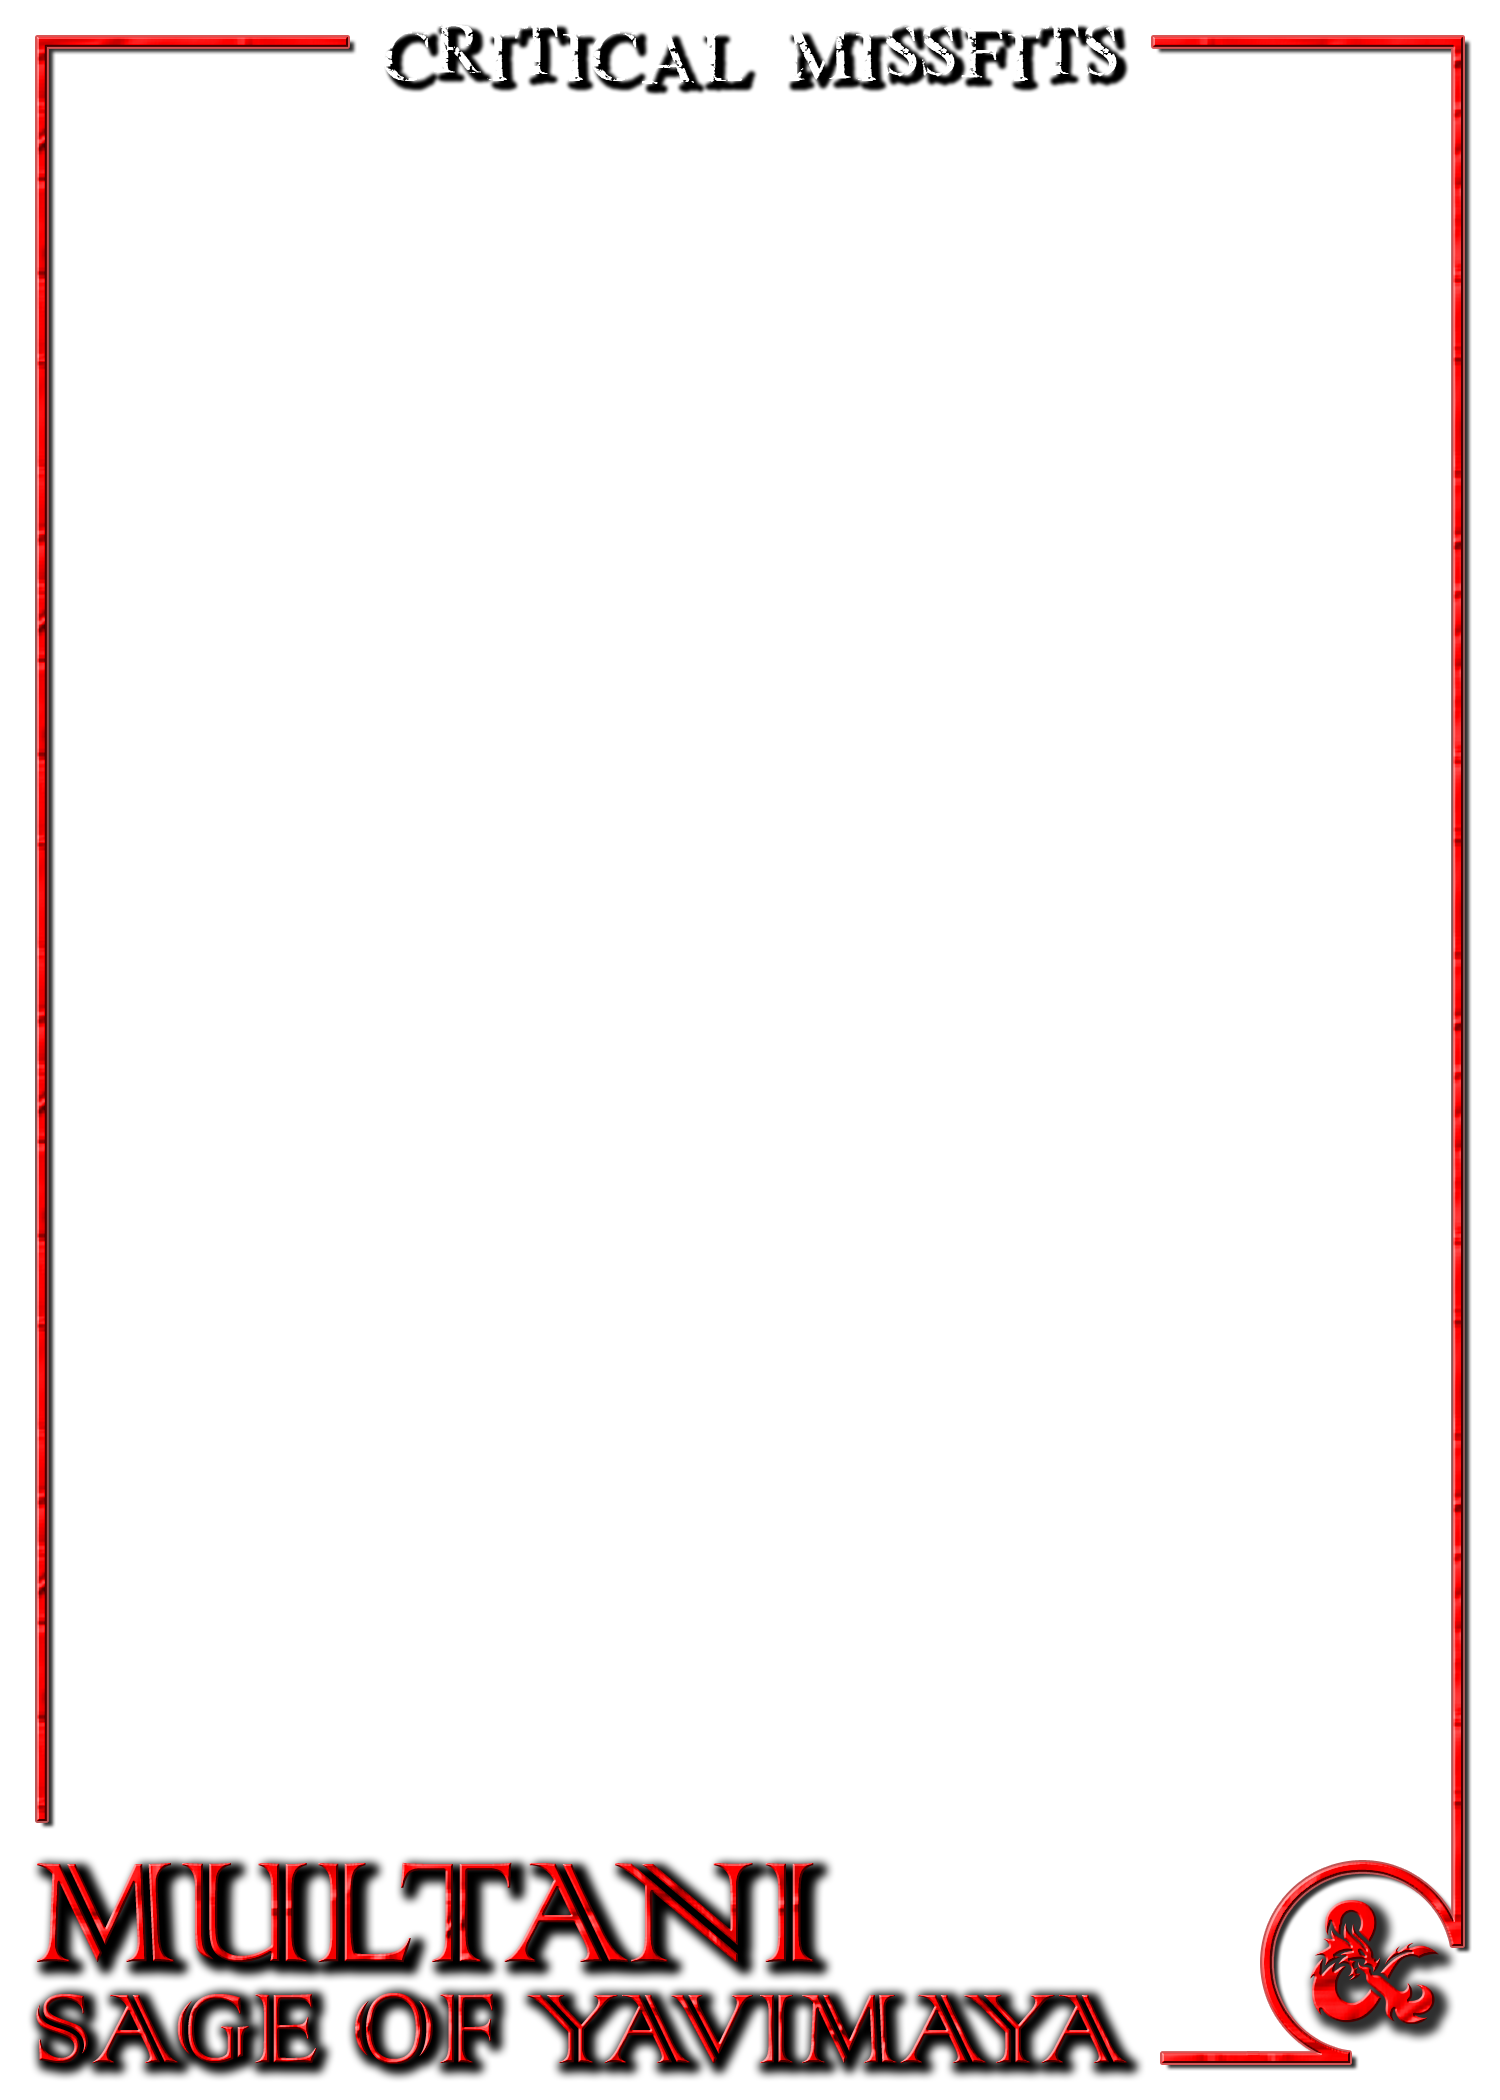
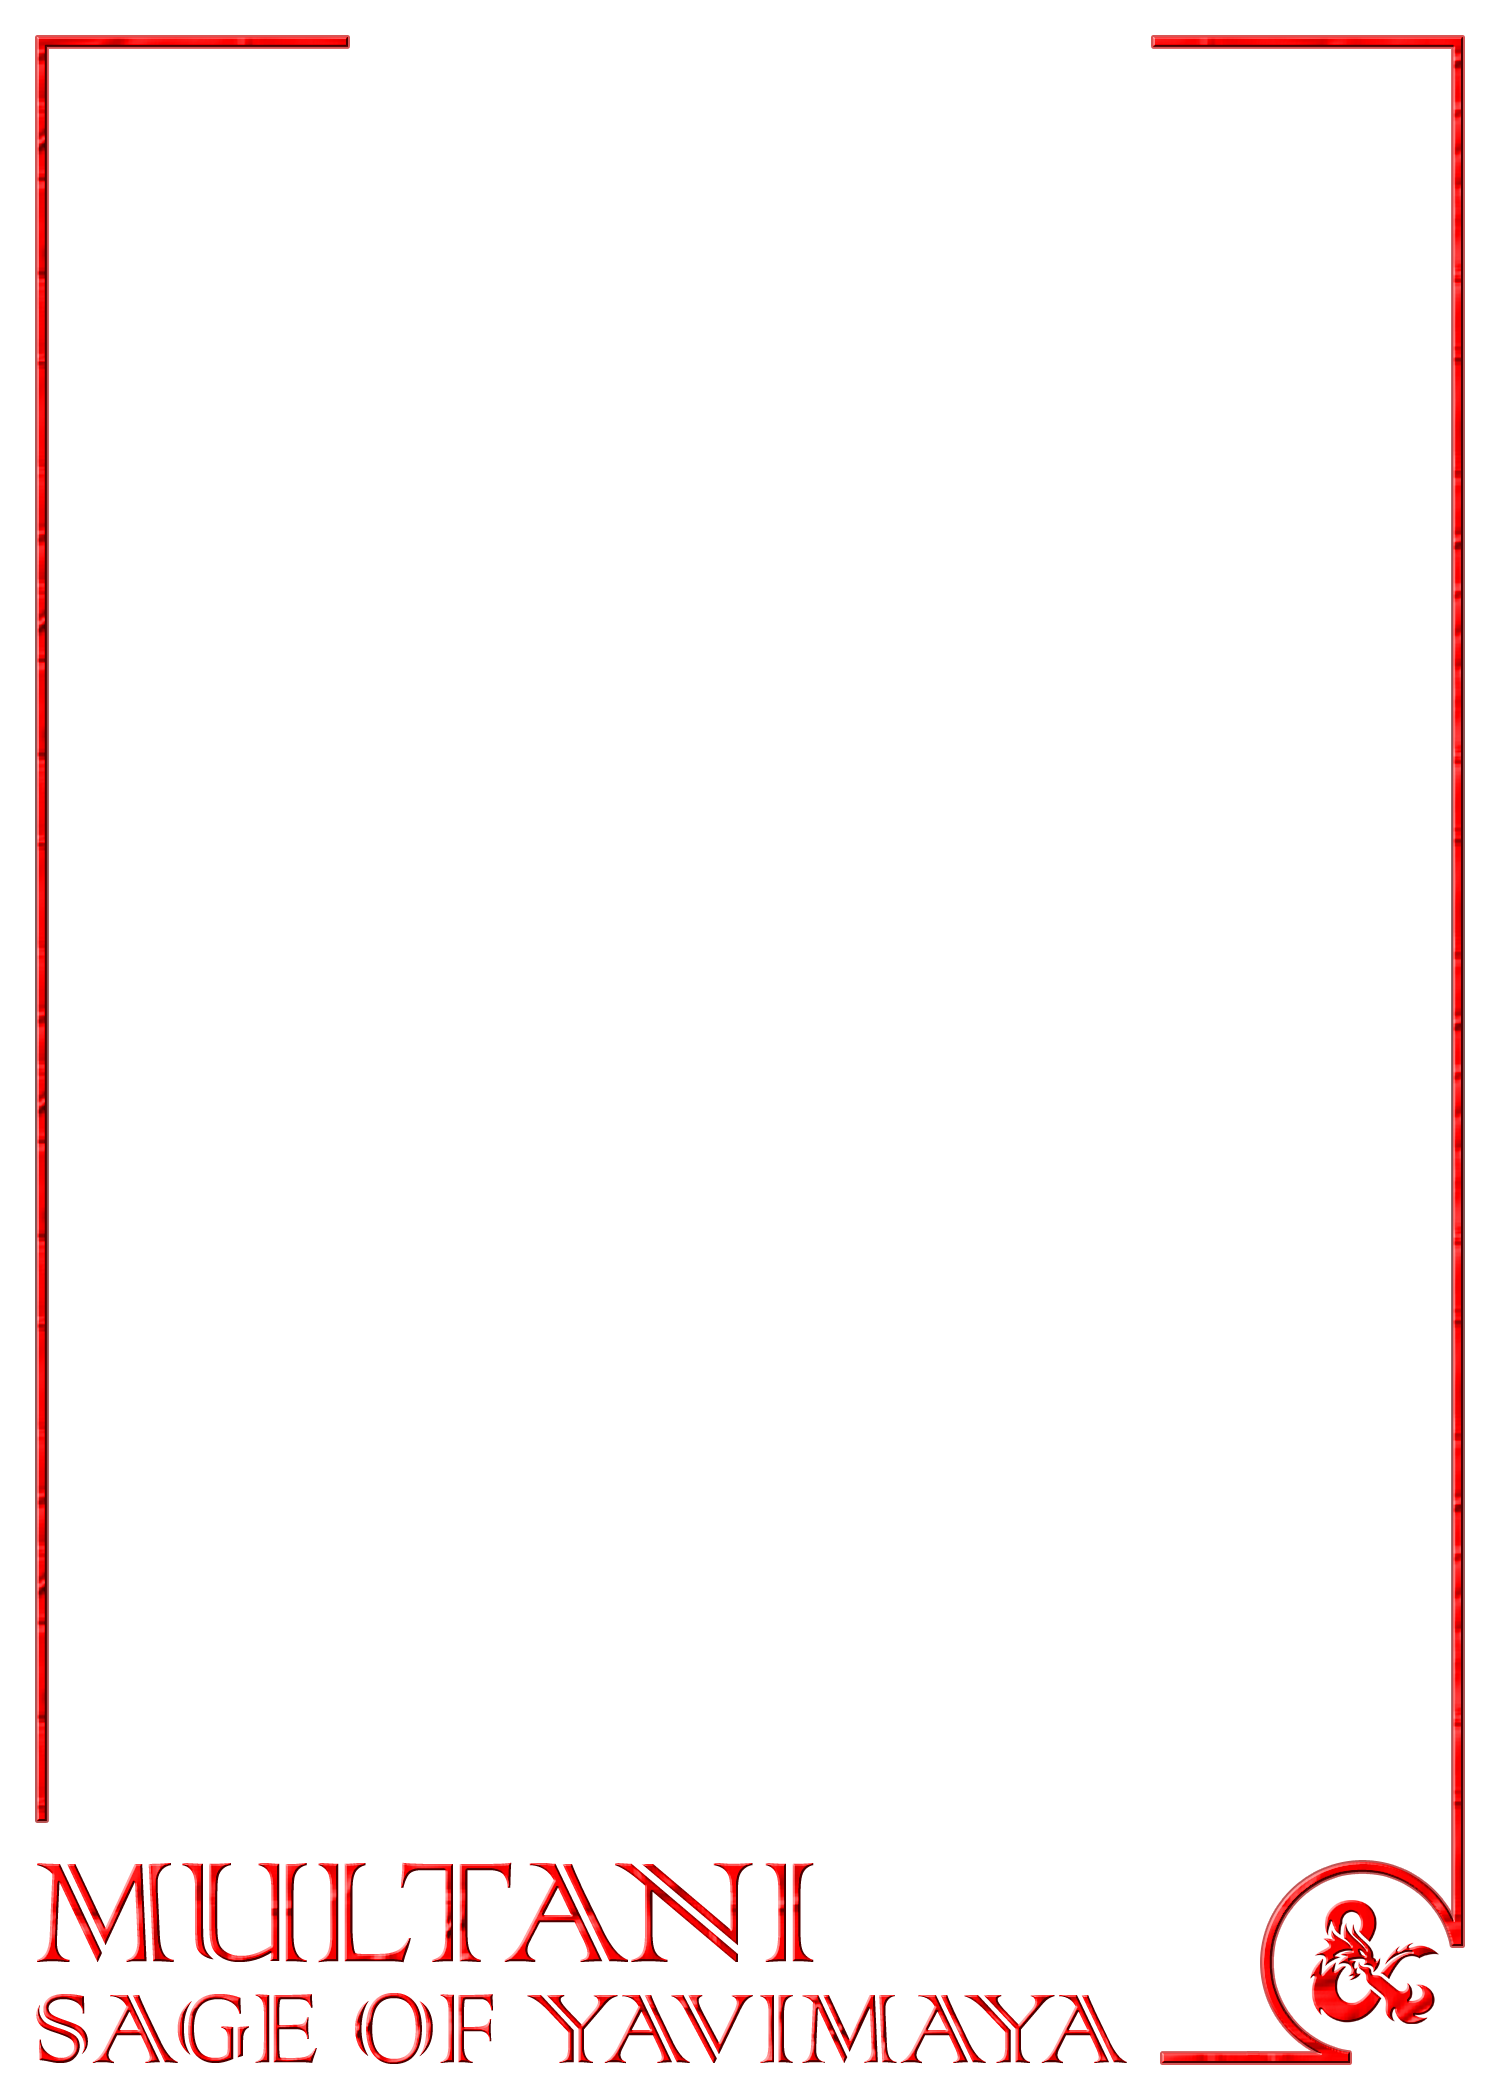
Separate card border and add CSS shadow

Changed region(s): [[0.0, 0.0, 0.7667, 0.9905], [0.828, 0.031, 0.9813, 0.9905], [0.2453, 0.0, 0.7667, 0.0619]]

diff --git a/src/Card.js b/src/Card.js
@@ -194,20 +194,20 @@ const Card = ({ data }) => {
 
 					<div className="card-front">
 						<img
-							src={data.front}
-							className="card-image card-base"
-							alt={`${data.name} front`}
-						/>
+	src={data.front}
+	className="card-image card-base"
+	alt={`${data.name} front`}
+/>
 
-						<img
-							src={data.border}
-							className="card-image card-border"
-							alt=""
-							aria-hidden="true"
-						/>
+<img
+	src={data.border}
+	className="card-image card-border"
+	alt=""
+	aria-hidden="true"
+/>
 
-						<div
-							className="foil-overlay"
+<div
+	className="foil-overlay"
 							style={{
 								"--border-mask":
 									`url(${data.border})`,

diff --git a/src/Card.css b/src/Card.css
@@ -95,11 +95,17 @@
 .card-border {
 	position: absolute;
 	inset: 0;
-	z-index: 2;
+	z-index: 3;
 
 	object-fit: contain;
 
 	pointer-events: none;
+
+	filter:
+		drop-shadow(0 3px 3px rgba(0, 0, 0, 1))
+		drop-shadow(0 6px 6px rgba(0, 0, 0, 1))
+		drop-shadow(0 10px 10px rgba(0, 0, 0, 1))
+		drop-shadow(0 14px 14px rgba(0, 0, 0, 1));
 }
 
 /* ==================== RED FOIL EFFECT ==================== */
